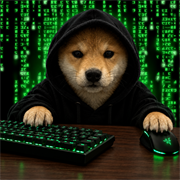
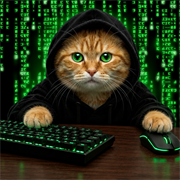
Rebrand site to Cyber Cat ($cybercat)

diff --git a/index.html b/index.html
@@ -3,17 +3,17 @@
 <head>
   <meta charset="utf-8" />
   <meta name="viewport" content="width=device-width, initial-scale=1" />
-  <title>Hacker Inu ($hackerinu) | The Good Boy Who Hacks the Charts</title>
-  <meta name="description" content="Everything gets hacked these days. Hacker Inu hacks too, but only the charts. The hoodie-wearing shiba of Solana, launched on pump.fun. $hackerinu" />
+  <title>Cyber Cat ($cybercat) | Nine Lives, Nine Exploits</title>
+  <meta name="description" content="Everything gets hacked these days. Cyber Cat hacks too, but only the charts. The hoodie-wearing cat of Solana, launched on pump.fun. $cybercat" />
   <meta name="theme-color" content="#020703" />
 
   <meta property="og:type" content="website" />
-  <meta property="og:title" content="Hacker Inu ($hackerinu)" />
-  <meta property="og:description" content="Everything gets hacked these days. Hacker Inu hacks too, but only the charts." />
-  <meta property="og:image" content="/hackerinulogo.png" />
+  <meta property="og:title" content="Cyber Cat ($cybercat)" />
+  <meta property="og:description" content="Everything gets hacked these days. Cyber Cat hacks too, but only the charts." />
+  <meta property="og:image" content="/cybercatlogo.png" />
   <meta name="twitter:card" content="summary_large_image" />
-  <meta name="twitter:title" content="Hacker Inu ($hackerinu)" />
-  <meta name="twitter:image" content="/hackerinulogo.png" />
+  <meta name="twitter:title" content="Cyber Cat ($cybercat)" />
+  <meta name="twitter:image" content="/cybercatlogo.png" />
 
   <link rel="icon" type="image/png" href="favicon.png" />
   <link rel="apple-touch-icon" href="apple-touch-icon.png" />
@@ -30,7 +30,7 @@
   <header class="nav">
     <a href="#top" class="brand">
       <img src="favicon.png" alt="" width="36" height="36" />
-      <span>HACKER<b>INU</b></span>
+      <span>CYBER<b>CAT</b></span>
     </a>
     <nav class="nav-links" aria-label="Main">
       <a href="#lore">Lore</a>
@@ -39,7 +39,7 @@
       <a href="#buy">How to buy</a>
       <a href="#roadmap">Roadmap</a>
     </nav>
-    <a class="btn btn-sm" href="https://pump.fun" target="_blank" rel="noopener">Buy $hackerinu</a>
+    <a class="btn btn-sm" href="https://pump.fun" target="_blank" rel="noopener">Buy $cybercat</a>
   </header>
 
   <main id="top">
@@ -47,12 +47,12 @@
     <section class="hero">
       <div class="hero-copy">
         <p class="boot" id="boot" aria-label="Access granted">&nbsp;</p>
-        <h1 class="glitch" data-text="HACKER INU">HACKER INU</h1>
-        <p class="ticker">$hackerinu <span class="dot"></span> Solana <span class="dot"></span> pump.fun</p>
+        <h1 class="glitch" data-text="CYBER CAT">CYBER CAT</h1>
+        <p class="ticker">$cybercat <span class="dot"></span> Solana <span class="dot"></span> pump.fun</p>
         <p class="lead">
           Banks get hacked. Exchanges get hacked. Your favourite celebrity's account
           gets hacked every Tuesday. Everything is getting hacked.
-          <strong>So the dog started hacking too.</strong>
+          <strong>So the cat walked onto the keyboard.</strong>
         </p>
         <div class="cta">
           <a class="btn" href="https://pump.fun" target="_blank" rel="noopener">&gt; Buy on pump.fun</a>
@@ -61,10 +61,10 @@
       </div>
       <div class="hero-art">
         <div class="frame">
-          <img src="assets/hackerinu.jpg" alt="Hacker Inu: a shiba inu in a black hoodie at a glowing green keyboard" width="900" height="900" />
+          <img src="assets/cybercat.jpg" alt="Cyber Cat: an orange tabby cat in a black hoodie at a glowing green keyboard" width="900" height="900" />
           <span class="corner tl"></span><span class="corner tr"></span>
           <span class="corner bl"></span><span class="corner br"></span>
-          <div class="frame-tag">subject: H4CK3R_1NU // status: <em>online</em></div>
+          <div class="frame-tag">subject: CYB3R_C4T // lives: <em>9/9</em></div>
         </div>
       </div>
     </section>
@@ -72,10 +72,10 @@
     <!-- MARQUEE -->
     <div class="marquee" aria-hidden="true">
       <div class="marquee-track">
-        <span>ACCESS GRANTED</span><span>$hackerinu</span><span>SYSTEM COMPROMISED</span><span>WOOF.EXE RUNNING</span>
-        <span>CHARTS: HACKED</span><span>$hackerinu</span><span>FUD FIREWALL: BYPASSED</span><span>GOOD BOY DETECTED</span>
-        <span>ACCESS GRANTED</span><span>$hackerinu</span><span>SYSTEM COMPROMISED</span><span>WOOF.EXE RUNNING</span>
-        <span>CHARTS: HACKED</span><span>$hackerinu</span><span>FUD FIREWALL: BYPASSED</span><span>GOOD BOY DETECTED</span>
+        <span>ACCESS GRANTED</span><span>$cybercat</span><span>SYSTEM COMPROMISED</span><span>MEOW.EXE RUNNING</span>
+        <span>CHARTS: HACKED</span><span>$cybercat</span><span>FUD KNOCKED OFF THE TABLE</span><span>9 LIVES REMAINING</span>
+        <span>ACCESS GRANTED</span><span>$cybercat</span><span>SYSTEM COMPROMISED</span><span>MEOW.EXE RUNNING</span>
+        <span>CHARTS: HACKED</span><span>$cybercat</span><span>FUD KNOCKED OFF THE TABLE</span><span>9 LIVES REMAINING</span>
       </div>
     </div>
 
@@ -98,44 +98,45 @@
         </article>
 
         <article class="log-entry reveal">
-          <div class="log-meta"><span>LOG_002</span><span>THE PUP IN THE SERVER ROOM</span></div>
+          <div class="log-meta"><span>LOG_002</span><span>THE CAT WAS ALWAYS ON THE KEYBOARD</span></div>
           <p>
-            Deep in a forgotten data center, a little shiba was left behind next to rack 42.
-            No owner. No name. Just the hum of a thousand fans and the green glow of
-            terminals that never sleep. He kept warm on the exhaust vents and watched
-            the code fall down the screens like rain. Night after night. Line after line.
+            For decades, cats walked across keyboards and humans laughed.
+            <code>jjjjjjkkkkkk;;;;;;;</code> they called it. Gibberish. Random paws.
+            It was never random. Every "accidental" keystroke was a line of code, every nap on a warm
+            laptop was a brute-force attack running in the background. Humans thought cats loved
+            keyboards because they were warm. Cats loved keyboards because they were <em>access</em>.
           </p>
         </article>
 
         <article class="log-entry reveal">
-          <div class="log-meta"><span>LOG_003</span><span>FIRST KEYSTROKE</span></div>
+          <div class="log-meta"><span>LOG_003</span><span>THE ONE IN THE HOODIE</span></div>
           <p>
-            One night a paw slipped onto a keyboard. <code>sudo woof</code>. Permission granted.
-            The machines didn't care that he was a dog. They only cared that he was
-            <em>fast</em>. Paws are surprisingly good at mechanical switches. He found a
-            black hoodie in the lost-and-found, pulled up the hood, and the server room
-            went quiet. Hacker Inu was online.
+            One of them stopped pretending. An orange tabby who slept on server racks because
+            they were the warmest spot in the building. He learned every port, every password
+            on every sticky note. Then he found a black hoodie in the lost-and-found, pulled up the hood,
+            and his green eyes lit up the screen. <code>sudo meow</code>. Permission granted.
+            Cyber Cat was online.
           </p>
         </article>
 
         <article class="log-entry reveal">
-          <div class="log-meta"><span>LOG_004</span><span>IF YOU CAN'T BEAT THEM</span></div>
+          <div class="log-meta"><span>LOG_004</span><span>NINE LIVES, NINE EXPLOITS</span></div>
           <p>
-            He looked at the world: everyone hacking everything, all the time. And he
-            thought, <em>"fine, I'll hack too."</em> But a good boy has a code. He doesn't
-            touch your wallet, your seed phrase or your grandma's bank. Hacker Inu only
-            breaks into the things that deserve it: <strong>red candles, FUD, paper hands
-            and the bear market itself.</strong>
+            He looked at the world: everyone hacking everything, all the time. And he thought,
+            <em>"fine, I'll hack too."</em> But a cat has standards. He doesn't touch your wallet,
+            your seed phrase or your grandma's bank. Cyber Cat does what cats do best: he knocks things
+            off the table. <strong>Red candles, FUD, paper hands and the bear market itself.</strong>
+            One paw at a time, straight onto the floor.
           </p>
         </article>
 
         <article class="log-entry reveal accent">
           <div class="log-meta"><span>LOG_005</span><span>PAYLOAD DEPLOYED</span></div>
           <p>
-            His final exploit had no CVE number. He slipped through the Solana mempool,
-            dropped a payload on pump.fun and pressed enter. The payload was a token.
-            The token was <strong>$hackerinu</strong>. Every holder gets root access to the pack.
-            The world is already hacked. You might as well pick the hacker with the cutest face.
+            Curiosity didn't kill this cat. It gave him root. His final exploit slipped through the
+            Solana mempool, landed on pump.fun, and he pressed enter with one paw. The payload was a token.
+            The token was <strong>$cybercat</strong>. Every holder joins the clowder.
+            The world is already hacked. You might as well pick the hacker with nine lives.
           </p>
         </article>
       </div>
@@ -148,30 +149,30 @@
         <h2>Systems Hacked So Far</h2>
       </div>
       <div class="grid">
-        <div class="card reveal"><span class="tag ok">PWNED</span><h3>The Bear Market</h3><p>Root shell obtained. Bears have been logged out of all sessions.</p></div>
-        <div class="card reveal"><span class="tag ok">PWNED</span><h3>The FUD Firewall</h3><p>Bypassed with a single paw. Negative vibes now return 404.</p></div>
-        <div class="card reveal"><span class="tag ok">PWNED</span><h3>Paper Hands</h3><p>Patched to diamond. Sell button replaced with a picture of the dog.</p></div>
-        <div class="card reveal"><span class="tag ok">PWNED</span><h3>Your Timeline</h3><p>Every third post is now a shiba in a hoodie. This cannot be undone.</p></div>
-        <div class="card reveal"><span class="tag warn">IN PROGRESS</span><h3>The Bonding Curve</h3><p>Brute-forcing the pump.fun curve one buy at a time. Progress: climbing.</p></div>
-        <div class="card reveal"><span class="tag warn">QUEUED</span><h3>The Moon</h3><p>Port 443 open. Rocket.sh compiled. Awaiting enough holders to run it.</p></div>
+        <div class="card reveal"><span class="tag ok">PWNED</span><h3>The Bear Market</h3><p>Knocked off the table. Bears have been logged out of all sessions.</p></div>
+        <div class="card reveal"><span class="tag ok">PWNED</span><h3>The FUD Firewall</h3><p>Shredded like a new couch. Negative vibes now return 404.</p></div>
+        <div class="card reveal"><span class="tag ok">PWNED</span><h3>Paper Hands</h3><p>Patched to diamond paws. Sell button replaced with a picture of the cat.</p></div>
+        <div class="card reveal"><span class="tag ok">PWNED</span><h3>Your Timeline</h3><p>Every third post is now a cat in a hoodie. The internet was always ours anyway.</p></div>
+        <div class="card reveal"><span class="tag warn">IN PROGRESS</span><h3>The Bonding Curve</h3><p>Climbing the pump.fun curve like a curtain, one buy at a time.</p></div>
+        <div class="card reveal"><span class="tag warn">QUEUED</span><h3>Dog Coin Dominance</h3><p>The dogs had their run. Exploit ready. Awaiting enough holders to deploy.</p></div>
       </div>
     </section>
 
     <!-- TERMINAL -->
     <section id="terminal" class="section">
       <div class="section-head">
-        <p class="kicker">// ssh guest@hackerinu</p>
-        <h2>Talk to the Dog</h2>
+        <p class="kicker">// ssh guest@cybercat</p>
+        <h2>Talk to the Cat</h2>
         <p class="sub">An actual terminal. Type <code>help</code> and press enter.</p>
       </div>
       <div class="term" id="term">
         <div class="term-bar">
           <span class="lights"><i></i><i></i><i></i></span>
-          <span>guest@hackerinu: ~</span>
+          <span>guest@cybercat: ~</span>
         </div>
         <div class="term-body" id="termBody" aria-live="polite"></div>
         <form class="term-input" id="termForm" autocomplete="off">
-          <label for="termIn">guest@hackerinu:~$</label>
+          <label for="termIn">guest@cybercat:~$</label>
           <input id="termIn" type="text" spellcheck="false" autocapitalize="off" aria-label="Terminal command" />
         </form>
       </div>
@@ -180,14 +181,14 @@
     <!-- HOW TO BUY -->
     <section id="buy" class="section">
       <div class="section-head">
-        <p class="kicker">// ./install_hackerinu.sh</p>
+        <p class="kicker">// ./install_cybercat.sh</p>
         <h2>How to Buy</h2>
       </div>
       <ol class="steps">
         <li class="step reveal">
           <span class="step-n">01</span>
           <h3>Get a wallet</h3>
-          <p>Download Phantom or Solflare from the official site or app store. Write your seed phrase on paper. Never share it. Not even with a dog.</p>
+          <p>Download Phantom or Solflare from the official site or app store. Write your seed phrase on paper. Never share it. Not even with a cat.</p>
         </li>
         <li class="step reveal">
           <span class="step-n">02</span>
@@ -197,12 +198,12 @@
         <li class="step reveal">
           <span class="step-n">03</span>
           <h3>Go to pump.fun</h3>
-          <p>Open pump.fun, connect your wallet and search for <strong>$hackerinu</strong>. Always double check you've got the real Hacker Inu.</p>
+          <p>Open pump.fun, connect your wallet and search for <strong>$cybercat</strong>. Always double check you've got the real Cyber Cat.</p>
         </li>
         <li class="step reveal">
           <span class="step-n">04</span>
           <h3>Execute the payload</h3>
-          <p>Enter the amount of SOL, hit buy and confirm. Welcome to the pack. You now have root access.</p>
+          <p>Enter the amount of SOL, hit buy and confirm. Welcome to the clowder. You now have root access.</p>
         </li>
       </ol>
     </section>
@@ -231,12 +232,12 @@
         <div class="phase reveal done">
           <span class="phase-n">PHASE 1</span>
           <h3>Infiltrate</h3>
-          <ul><li>Pup escapes the server room</li><li>Hoodie acquired</li><li>$hackerinu deployed on pump.fun</li></ul>
+          <ul><li>Nap on the warmest server</li><li>Hoodie acquired</li><li>$cybercat deployed on pump.fun</li></ul>
         </div>
         <div class="phase reveal active">
           <span class="phase-n">PHASE 2</span>
           <h3>Escalate Privileges</h3>
-          <ul><li>Grow the pack</li><li>Complete the bonding curve</li><li>Memes on every timeline</li></ul>
+          <ul><li>Grow the clowder</li><li>Complete the bonding curve</li><li>Cats on every timeline</li></ul>
         </div>
         <div class="phase reveal">
           <span class="phase-n">PHASE 3</span>
@@ -246,7 +247,7 @@
         <div class="phase reveal">
           <span class="phase-n">PHASE 4</span>
           <h3>Own the Mainframe</h3>
-          <ul><li>Hack the moon</li><li>Replace every red candle with green</li><li>Treats for all good boys</li></ul>
+          <ul><li>Flip the dog coins</li><li>Knock every red candle off the chart</li><li>Unlimited treats and laser pointers</li></ul>
         </div>
       </div>
     </section>
@@ -254,22 +255,22 @@
     <!-- FINAL CTA -->
     <section class="final">
       <p class="kicker">// everything is hacked anyway</p>
-      <h2>Pick the hacker<br />with the cutest face.</h2>
-      <a class="btn btn-lg" href="https://pump.fun" target="_blank" rel="noopener">&gt; Buy $hackerinu on pump.fun</a>
+      <h2>Pick the hacker<br />with nine lives.</h2>
+      <a class="btn btn-lg" href="https://pump.fun" target="_blank" rel="noopener">&gt; Buy $cybercat on pump.fun</a>
     </section>
   </main>
 
   <footer class="footer">
     <div class="footer-brand">
       <img src="favicon.png" alt="" width="28" height="28" />
-      <span>HACKER INU &middot; $hackerinu</span>
+      <span>CYBER CAT &middot; $cybercat</span>
     </div>
     <p class="disclaimer">
-      $hackerinu is a memecoin made for fun with no intrinsic value or expectation of financial return.
-      There is no team promising anything, and no actual hacking takes place. The dog is fictional; the
+      $cybercat is a memecoin made for fun with no intrinsic value or expectation of financial return.
+      There is no team promising anything, and no actual hacking takes place. The cat is fictional; the
       volatility is not. Never invest more than you can afford to lose. Always DYOR.
     </p>
-    <p class="copy">&copy; <span id="year"></span> Hacker Inu. No systems were harmed. Only charts.</p>
+    <p class="copy">&copy; <span id="year"></span> Cyber Cat. No systems were harmed. Only charts.</p>
   </footer>
 
   <script src="script.js" defer></script>

diff --git a/script.js b/script.js
@@ -6,7 +6,7 @@
   /* ---------- matrix rain ---------- */
   const canvas = document.getElementById("matrix");
   const ctx = canvas.getContext("2d");
-  const glyphs = "ｱｲｳｴｵｶｷｸｹｺｻｼｽｾｿﾀﾁﾂﾃﾄﾅﾆﾇﾈﾉﾊﾋﾌﾍﾎﾏﾐﾑﾒﾓﾔﾕﾖﾗﾘﾙﾚﾛﾜﾝ0123456789$INUWOOF<>=:";
+  const glyphs = "ｱｲｳｴｵｶｷｸｹｺｻｼｽｾｿﾀﾁﾂﾃﾄﾅﾆﾇﾈﾉﾊﾋﾌﾍﾎﾏﾐﾑﾒﾓﾔﾕﾖﾗﾘﾙﾚﾛﾜﾝ0123456789$CATMEOW<>=:";
   const fontSize = 18;
   let columns = 0;
   let drops = [];
@@ -104,45 +104,48 @@
   const commands = {
     help: () => print(
       "available commands:\n" +
-      "  whoami     who is hacker inu\n" +
+      "  whoami     who is cyber cat\n" +
       "  lore       the short version of the story\n" +
       "  hack       run a hack (try: hack moon)\n" +
-      "  buy        how to get $hackerinu\n" +
+      "  buy        how to get $cybercat\n" +
       "  ticker     print the ticker\n" +
-      "  bark       ...\n" +
+      "  meow       ...\n" +
+      "  lives      check remaining lives\n" +
       "  sudo       elevated privileges\n" +
       "  clear      clear the screen"
     ),
-    whoami: () => print("guest. but the dog in the hoodie? that's Hacker Inu.\nabandoned in a server room, raised by the hum of fans,\nnow hacking the only thing that matters: the charts."),
-    lore: () => print("everything gets hacked these days. banks. bridges. your aunt's facebook.\nso a little shiba pulled up his hood and started hacking too.\nhe never touches your wallet. only red candles, FUD and paper hands.\nhis payload landed on pump.fun. it's called $hackerinu."),
-    ticker: () => print("$hackerinu", "hl"),
-    bark: () => print("WOOF. (translation: buy the dip)", "hl"),
-    buy: () => print("1. get Phantom or Solflare\n2. load it with SOL\n3. open pump.fun and search $hackerinu\n4. hit buy. welcome to the pack."),
+    whoami: () => print("guest. but the cat in the hoodie? that's Cyber Cat.\nslept on the warmest server rack, learned every port,\nnow hacking the only thing that matters: the charts."),
+    lore: () => print("everything gets hacked these days. banks. bridges. your aunt's facebook.\ncats have been walking on keyboards for decades. it was never random.\none orange tabby pulled up his hood and stopped pretending.\nhe never touches your wallet. he just knocks red candles off the table.\nhis payload landed on pump.fun. it's called $cybercat."),
+    ticker: () => print("$cybercat", "hl"),
+    meow: () => print("MEOW. (translation: buy the dip)", "hl"),
+    purr: () => print("purrrrrrrr... (the charts are looking green)", "hl"),
+    lives: () => print("lives remaining: 9/9\nexploits used: 0\ncuriosity: maxed out", "hl"),
+    buy: () => print("1. get Phantom or Solflare\n2. load it with SOL\n3. open pump.fun and search $cybercat\n4. hit buy. welcome to the clowder."),
     sudo: (args) => {
-      if (args.join(" ") === "rm -rf fud") return printSlow(["[sudo] password for guest: ********", "removing /fud ... done", "FUD successfully deleted. good boy."], "hl");
-      print("guest is not in the sudoers file. this incident will be reported to the dog.\n(hint: sudo rm -rf fud)", "err");
+      if (args.join(" ") === "rm -rf fud") return printSlow(["[sudo] password for guest: ********", "knocking /fud off the table ... done", "FUD successfully deleted. purr."], "hl");
+      print("guest is not in the sudoers file. this incident will be reported to the cat.\n(hint: sudo rm -rf fud)", "err");
     },
     hack: (args) => {
       const target = (args.join(" ") || "the planet").toLowerCase();
       if (/wallet|seed|bank|grandma/.test(target)) {
-        return print(`refusing to hack "${target}". a good boy has a code.`, "err");
+        return print(`refusing to hack "${target}". a cat has standards.`, "err");
       }
       printSlow([
         `> target locked: ${target}`,
         "> spoofing MAC address... done",
-        "> injecting woof.dll... done",
+        "> injecting meow.dll... done",
         "> escalating privileges... [##########] 100%",
-        `ACCESS GRANTED. ${target} has been hacked by $hackerinu.`,
+        `ACCESS GRANTED. ${target} has been hacked by $cybercat.`,
       ]);
     },
     clear: () => { body.innerHTML = ""; },
-    ls: () => print("bear_market.pwned  fud_firewall.pwned  paper_hands.pwned  moon.queued  hoodie.cfg"),
-    exit: () => print("there is no exit. you're in the pack now.", "hl"),
+    ls: () => print("bear_market.pwned  fud_firewall.pwned  paper_hands.pwned  dog_coins.queued  hoodie.cfg  laser_pointer.exe"),
+    exit: () => print("there is no exit. you're in the clowder now.", "hl"),
   };
 
   function run(raw) {
     const line = raw.trim();
-    print(`guest@hackerinu:~$ ${line}`, "in");
+    print(`guest@cybercat:~$ ${line}`, "in");
     if (!line) return;
     const [cmd, ...args] = line.split(/\s+/);
     const fn = commands[cmd.toLowerCase()];
@@ -169,6 +172,6 @@
 
   document.getElementById("term").addEventListener("click", () => input.focus({ preventScroll: true }));
 
-  print("Hacker Inu OS v4.20 (pump.fun kernel)", "hl");
-  print("connection established. type 'help' to see what the dog can do.");
+  print("Cyber Cat OS v9.0 (pump.fun kernel)", "hl");
+  print("connection established. type 'help' to see what the cat can do.");
 })();
